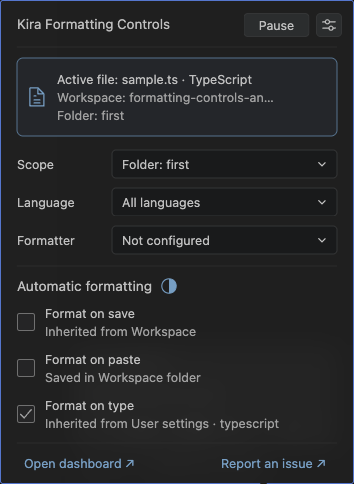
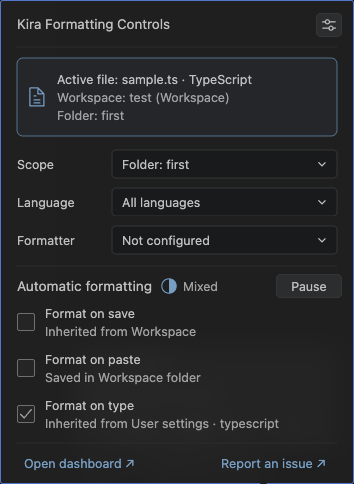
feat: group formatting status and pause controls

diff --git a/test/status.ts b/test/status.ts
@@ -74,6 +74,8 @@ export const reviewStatus = async (
       summaryIconOffsetY: number;
       summaryIconGap: number;
       summaryIconDiameter: number;
+      summaryLabelOffsetY: number;
+      summaryLabelFits: boolean;
       summaryTop: number;
       triggerBottom: number;
       headerFits: boolean;
@@ -112,6 +114,7 @@ export const reviewStatus = async (
         const summaryText = summary.querySelectorAll("text");
         const summaryHeading = summaryText[0].getBBox();
         const summaryIcon = summary.querySelector('[data-status]').getBBox();
+        const summaryLabel = summaryText[1].getBBox();
         const triggerNote = Array.from(formatting.querySelectorAll("text")).at(-1).getBBox();
         return {
           contextOffsetY: (file.y + lastContextLine.y + lastContextLine.height)/2 - (contextIcon.y + contextIcon.height/2),
@@ -126,6 +129,8 @@ export const reviewStatus = async (
           summaryIconOffsetY: summaryHeading.y + summaryHeading.height/2 - (summaryIcon.y + summaryIcon.height/2),
           summaryIconGap: summaryIcon.x - (summaryHeading.x + summaryHeading.width),
           summaryIconDiameter: summaryIcon.width,
+          summaryLabelOffsetY: summaryLabel.y + summaryLabel.height/2 - (summaryIcon.y + summaryIcon.height/2),
+          summaryLabelFits: summaryLabel.x >= summaryIcon.x + summaryIcon.width + 6 && summaryLabel.x + summaryLabel.width <= art.summary.width,
           summaryTop: summaryHeading.y,
           triggerBottom: triggerNote.y + triggerNote.height,
           headerFits: title.x + title.width <= art.header.width,
@@ -145,12 +150,17 @@ export const reviewStatus = async (
       measurement.pauseOffsetY,
       measurement.summaryHeadingOffsetY,
       measurement.summaryIconOffsetY,
+      measurement.summaryLabelOffsetY,
     ])
       assert.ok(
         Math.abs(offset) <= 1,
         "Status, context and Pause/Resume text stay centered",
       );
     assert.ok(measurement.headerFits, "Full extension name fits");
+    assert.ok(
+      measurement.summaryLabelFits,
+      "Enabled, Disabled and Mixed labels clear the icon and fit before Pause/Resume",
+    );
     assert.ok(
       measurement.contextIconGap >= 10,
       "File context clears its document icon",
@@ -182,8 +192,8 @@ export const reviewStatus = async (
   const loaded = async () => {
     await hover.waitFor({ state: "visible" });
     const images = hover.locator("img");
-    await images.nth(10).waitFor();
-    assert.equal(await images.count(), 11, "All status artwork is rendered");
+    await images.nth(11).waitFor();
+    assert.equal(await images.count(), 12, "All status artwork is rendered");
   };
   const captureCard = async (name: string) => {
     const bounds = await hover.boundingBox();
@@ -513,13 +523,13 @@ export const reviewStatus = async (
     `Automatic formatting has balanced padding (${formattingTopGap}px above, ${formattingBottomGap}px below)`,
   );
   assert.ok(
-    Math.abs(center(pauseBounds) - center(headerBounds)) <= 1,
-    "Pause aligns with the title and Settings",
+    Math.abs(center(pauseBounds) - center(summaryBounds)) <= 1,
+    "Pause aligns with Automatic formatting and its status",
   );
   assert.ok(
-    pauseBounds.x >= headerBounds.x + headerBounds.width &&
-      pauseBounds.x + pauseBounds.width + 4 <= settingsBounds.x,
-    "Pause stays between the title and Settings with a clear gap",
+    pauseBounds.x >= summaryBounds.x + summaryBounds.width + 8 &&
+      pauseBounds.x + pauseBounds.width <= hovered.x + hovered.width,
+    "Pause stays to the right of the status with a clear unlinked gap",
   );
   const scopeBounds = await scopes.boundingBox();
   assert.ok(contextBounds && scopeBounds);

diff --git a/test/unit/status-hover.ts b/test/unit/status-hover.ts
@@ -155,6 +155,11 @@ test("status and pause/resume reserve identical geometry and preserve truthful e
     assert.equal(art.pause.width, 66);
     assert.equal(art.pause.height, art.settings.height);
     assert.doesNotMatch(art.summary.svg, /<rect\b/);
+    assert.equal(
+      art.summary.width + art.summaryGap.width + art.pause.width,
+      art.context.width,
+      "The status and button fit the fixed card width without shifting",
+    );
   }
   assert.match(variants[4]?.summary.alt ?? "", /Disabled/);
   assert.match(variants[5]?.summary.alt ?? "", /Mixed/);
@@ -191,8 +196,9 @@ test("actions have no tooltip while keeping their labels and click targets", () 
     );
     assert.match(
       rows[0] ?? "",
-      /alt="Kira Formatting Controls".*alt="(?:Pause|Resume)".*alt="Open VS Code Settings"/,
+      /alt="Kira Formatting Controls".*alt="Open VS Code Settings"/,
     );
+    assert.doesNotMatch(rows[0] ?? "", /alt="(?:Pause|Resume)"/);
     assert.doesNotMatch(rows[0] ?? "", /alt="Automatic formatting:/);
     const pauseIndex = rows.findIndex((row) =>
       row.includes(`alt="${paused ? "Resume" : "Pause"}"`),
@@ -200,13 +206,18 @@ test("actions have no tooltip while keeping their labels and click targets", () 
     assert.ok(
       pauseIndex < rows.findIndex((row) => row.includes("Format on type:")),
     );
-    assert.equal(pauseIndex, 0);
+    assert.equal(pauseIndex, 4);
     const statusIndex = rows.findIndex((row) =>
       row.includes("Automatic formatting: Mixed."),
     );
     assert.equal(statusIndex, 4);
     assert.doesNotMatch(rows[1] ?? "", /Automatic formatting: Mixed/);
-    assert.doesNotMatch(rows[statusIndex] ?? "", /<a\b/);
+    assert.equal(pauseIndex, statusIndex);
+    assert.match(
+      rows[statusIndex] ?? "",
+      /^<td colspan="2"><img[^>]*alt="Automatic formatting: Mixed\."/,
+      "The heading remains unlinked; only the Pause/Resume button is linked",
+    );
     for (const row of rows.filter((row) => /alt="Active file:/.test(row)))
       assert.doesNotMatch(row, /<a\b/);
     for (const row of rows.slice(1)) assert.doesNotMatch(row, /title=/);
@@ -329,6 +340,10 @@ test("heading status icons distinguish every flag combination while context keep
         new RegExp(`data-icon="${icon}" data-status="${expected}"`),
       );
       assert.equal(art.summary.alt, `Automatic formatting: ${expected}.`);
+      assert.match(
+        art.summary.svg,
+        new RegExp(`x="171" y="14"[^>]*>${expected}</text>`),
+      );
       assert.match(art.summary.svg, /r="7.2"/);
       assert.match(art.context.svg, /data-icon="file-text"/);
       assert.doesNotMatch(art.context.svg, /data-status=/);

diff --git a/shared/status-hover.ts b/shared/status-hover.ts
@@ -37,11 +37,11 @@ export const statusHover = (
     ? `<a href="${link("pause")}">${image(art.pause)}</a>`
     : image(art.pause);
   return `<table width="${art.context.width}"><colgroup><col width="${art.header.width}"><col width="${art.context.width - art.header.width}"></colgroup><tbody>${[
-    `<tr><td>${image(art.header)}</td><td align="right">${pause}&#160;&#160;<a href="command:workbench.action.openSettings?${encodeURIComponent(JSON.stringify(["editor.formatOn"]))}">${image(art.settings)}</a></td></tr>`,
+    `<tr><td>${image(art.header)}</td><td align="right"><a href="command:workbench.action.openSettings?${encodeURIComponent(JSON.stringify(["editor.formatOn"]))}">${image(art.settings)}</a></td></tr>`,
     fullRow(image(art.context)),
     fullRow(image(art.scopes)),
     fullRow(image(art.formatter)),
-    fullRow(image(art.summary)),
+    fullRow(`${image(art.summary)}${image(art.summaryGap)}${pause}`),
     fullRow(image(art.formatting)),
     fullRow(
       `<a href="command:formattingControls.dashboard">${image(art.dashboard, undefined, "top")}</a>${image(art.footerGap, undefined, "top")}<a href="${issueUrl}">${image(art.issue, undefined, "top")}</a>`,

diff --git a/shared/status-artwork.ts b/shared/status-artwork.ts
@@ -265,7 +265,8 @@ export const statusArtwork = (
   // Preserve the approved heading width across fallback fonts.
   const formattingHeading =
     `<text x="5" y="14" dominant-baseline="central" font-size="13.5" textLength="135" lengthAdjust="spacingAndGlyphs" fill="${p.fg}">Automatic formatting</text>` +
-    statusGlyph(157, 14);
+    statusGlyph(157, 14) +
+    centeredText(171, 14, state, 12.5, p.muted);
   const flagContents = ["save", "paste", "type"]
     .map((label, i) => {
       const y = i * 46;
@@ -345,14 +346,15 @@ export const statusArtwork = (
       28,
       formattingHeading,
       `Automatic formatting: ${state}.`,
-      169,
+      254,
     ),
     summary: image(
       28,
       formattingHeading,
       `Automatic formatting: ${state}.`,
-      220,
+      254,
     ),
+    summaryGap: image(28, "", "", 10),
     formatting: image(
       134,
       flagContents,

diff --git a/docs/status-controls.md b/docs/status-controls.md
@@ -2,7 +2,7 @@
 
 Hover and click open the same anchored card above the Formatting status-bar item. Click focuses and pins it; Escape dismisses it. Enter on the focused status item opens it. A normal status click creates neither a docked Panel view nor an editor tab.
 
-The padded header shows **Kira Formatting Controls**, Pause/Resume, and a two-slider Settings icon inside a fixed 26px by 24px box. A blue status icon sits beside Automatic formatting; a text-document icon identifies the file section. The status bar shows ON when at least one formatting trigger is enabled and OFF when all three are disabled. Version details remain in the Extensions listing. The app icon appears in that listing; the card has no app logo. The package ID remains `rajudhami.formatting-controls`.
+The padded header shows **Kira Formatting Controls** and a two-slider Settings icon inside a fixed 26px by 24px box. A blue status icon and Enabled/Disabled/Mixed label sit beside Automatic formatting, with text-only Pause/Resume on the right of the same row. A text-document icon identifies the file section. The status bar shows ON when at least one formatting trigger is enabled and OFF when all three are disabled. Version details remain in the Extensions listing. The app icon appears in that listing; the card has no app logo. The package ID remains `rajudhami.formatting-controls`.
 
 ![Anchored formatting controls](assets/status-card-dark.png)
 
@@ -47,7 +47,7 @@ Read-only dropdowns use standard outlined fields with normal text and arrows. Ch
 
 VS Code's public `StatusBarItem.tooltip` accepts Markdown, images and command links; arbitrary form styling is sanitized. Locally generated inert SVG images preserve the approved layout, with native links for actions and hover-only titles for shortened context labels. No scripts, external images, rendering network calls or rendering files are used.
 
-The content width stays at 330px (approximately 354px including the native hover frame and insets). Each file, workspace and folder label stays on its own line; long names use an ellipsis rather than widening or wrapping the card. The title and section heading use 13.5px regular text and body/control text 12.5px. The text-document icon is vertically centered on the left, with the former right-hand status column returned to file/workspace text. The state icon is centered beside Automatic formatting. Conservative font-width allowances keep labels within their wider column, including wide letters and emoji. The Scope, Language and Formatter rows retain 28px outlined fields. Formatting rows retain the 46px rhythm and neutral outlined checkboxes. Automatic formatting has one state icon, with no information icon or duplicate status label. Pause/Resume stays in the header, with identical 66px by 24px dimensions and the Settings button’s height. Pause is neutral gray; Resume has a soft blue background with the same foreground text. Both keep their native picker flow without hover tooltips. The footer retains separate 139px and 133px borderless hit areas, separated by an unlinked 58px gutter.
+The content width stays at 330px (approximately 354px including the native hover frame and insets). Each file, workspace and folder label stays on its own line; long names use an ellipsis rather than widening or wrapping the card. The title and section heading use 13.5px regular text and body/control text 12.5px. The text-document icon is vertically centered on the left, with the former right-hand status column returned to file/workspace text. The state icon and Enabled/Disabled/Mixed label are centered beside Automatic formatting. Conservative font-width allowances keep labels within their wider column, including wide letters and emoji. The Scope, Language and Formatter rows retain 28px outlined fields. Formatting rows retain the 46px rhythm and neutral outlined checkboxes. The text-only Pause/Resume button sits at the right of the Automatic formatting row, separated from the unlinked summary by a 10px gutter. Both labels use identical 66px by 24px dimensions and the Settings button’s height. Pause is neutral gray; Resume has a soft blue background with the same foreground text. Both keep their native picker flow without hover tooltips. The footer retains separate 139px and 133px borderless hit areas, separated by an unlinked 58px gutter.
 
 Transparent artwork reveals the native hover surface. Dark, light, high-contrast and high-contrast-light palettes follow the theme kind; arbitrary custom theme colors/fonts are not available inside the image renderer. Native links follow the editor's own hover/focus styling. The public Markdown tooltip cannot reproduce Copilot's custom grey icon-button hover fill or enforce a custom hover underline. This limitation does not change layout or actions.
 

diff --git a/README.md b/README.md
@@ -12,7 +12,7 @@ Hover or click the status bar to open the same **Kira Formatting Controls** card
 
 ## What you can do
 
-- **Keep a clear summary at the status bar.** Read formatting, scope, source notes and formatter details. Pause/Resume appears beside Settings in the header and preserves save actions. Formatting values remain read-only; long context names reveal their full labels on hover.
+- **Keep a clear summary at the status bar.** Read formatting, scope, source notes and formatter details. Pause/Resume appears to the right of Automatic formatting and preserves save actions. Formatting values remain read-only; long context names reveal their full labels on hover.
 - **Pause through native commands.** Pause/Resume opens a native picker before changing settings. The hover card closes first, avoiding live-update flicker. The same action is available from the Command Palette; Escape cancels it.
 - **See the effective state.** The status bar shows ON when any of Format on Save, Paste or Type is enabled and OFF when all three are disabled. The card distinguishes fully enabled, disabled and mixed settings.
 - **Choose where changes belong.** Write to User, Workspace, or a specific workspace folder. Select a VS Code language ID for language overrides.
@@ -125,7 +125,7 @@ Hover the status-bar item to open the anchored **Kira Formatting Controls** card
 
 The welcome page appears once on first activation. It introduces the workflow and links to settings, documentation, and GitHub; it does not apply a preset automatically.
 
-The blue status icon beside **Automatic formatting** summarizes the three formatting triggers: a circled checkmark for **Enabled**, a circle minus for **Disabled**, and a half-filled circle for **Mixed**. The file box keeps its text-document icon and full text column without a duplicate state label. The status bar uses ON when any trigger is enabled and OFF when all are disabled; the card’s accessible description retains the three-state summary. Active-file labels use full language names. The card keeps a fixed 330px content width; exceptionally long names use ellipses, with full names available on hover. **Scope**, **Language** and **Formatter** appear above Automatic formatting. Pause/Resume and Settings stay in the header; the footer opens the dashboard or a new GitHub issue. [Status-card details and API limits](docs/status-controls.md).
+The blue status icon and label beside **Automatic formatting** summarize the three formatting triggers: a circled checkmark for **Enabled**, a circle minus for **Disabled**, and a half-filled circle for **Mixed**. The file box keeps its text-document icon and full text column without a duplicate state label. The status bar uses ON when any trigger is enabled and OFF when all are disabled; the card’s accessible description retains the three-state summary. Active-file labels use full language names. The card keeps a fixed 330px content width; exceptionally long names use ellipses, with full names available on hover. **Scope**, **Language** and **Formatter** appear above Automatic formatting. The text-only Pause/Resume button sits to the right of that heading, with Settings in the header; the footer opens the dashboard or a new GitHub issue. [Status-card details and API limits](docs/status-controls.md).
 
 ![Native formatting summary above the status bar in Dark Modern](docs/assets/status-card-dark.png)
 

diff --git a/CHANGELOG.md b/CHANGELOG.md
@@ -3,6 +3,7 @@
 ## 0.8.0 — Unreleased
 
 - Replace the extension icon with a transparent white-and-blue formatting-controls mark: indented lines and a slider. Use the same mark in the dashboard sidebar and loading view, adapting its foreground to the editor theme.
+- Show Enabled, Disabled or Mixed beside the status icon in the hover/click card. Move the text-only Pause/Resume button to the right of Automatic formatting, keeping its size, native picker flow and the card's fixed width unchanged.
 
 ## 0.7.0
 
